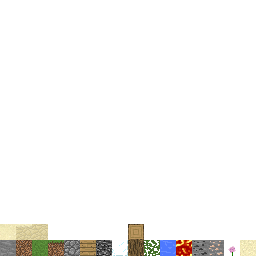
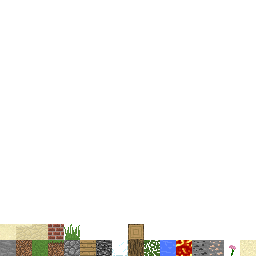
Texture Tweaks, Bricks & LGrass

Changed region(s): [[0.1875, 0.875, 0.3125, 0.9375], [0.875, 0.9375, 0.9375, 1.0], [0.5625, 0.9375, 0.625, 1.0]]

diff --git a/src/shared/entities/entityplayer.cpp b/src/shared/entities/entityplayer.cpp
@@ -98,7 +98,7 @@ void CEntityPlayer::UpdateClient( CWorld *clientSideWorld )
 			m_iSelectedBlockType = blocktype_t( m_iSelectedBlockType + 1 );
 			if ( m_iSelectedBlockType == blocktype_t::BEDROCK )
 				m_iSelectedBlockType = blocktype_t( m_iSelectedBlockType + 1 );
-			if ( m_iSelectedBlockType > blocktype_t::SANDSTONE )
+			if ( m_iSelectedBlockType > blocktype_t::LGRASS )
 				m_iSelectedBlockType = blocktype_t::STONE;
 		}
 		else if ( m_pInputMan->m_iMouseState & IN_WHEEL_DOWN )
@@ -107,7 +107,7 @@ void CEntityPlayer::UpdateClient( CWorld *clientSideWorld )
 			if ( m_iSelectedBlockType == blocktype_t::BEDROCK )
 				m_iSelectedBlockType = blocktype_t( m_iSelectedBlockType - 1 );
 			if ( m_iSelectedBlockType <= blocktype_t::AIR )
-				m_iSelectedBlockType = blocktype_t::SANDSTONE;
+				m_iSelectedBlockType = blocktype_t::LGRASS;
 		}
 	}
 }

diff --git a/src/shared/blockdef.cpp b/src/shared/blockdef.cpp
@@ -11,6 +11,7 @@ blockmaterial_t GetBlockMaterial( blocktype_t blockType )
 		case ORE_COAL:
 		case ORE_IRON:
 		case SANDSTONE:
+		case BRICKS:
 			return blockmaterial_t::MAT_STONE;
 			break;
 
@@ -30,6 +31,7 @@ blockmaterial_t GetBlockMaterial( blocktype_t blockType )
 		case GRASS:
 		case LEAVES:
 		case FLOWER:
+		case LGRASS:
 			return blockmaterial_t::MAT_ORGANIC;
 			break;
 
@@ -73,6 +75,7 @@ BlockFeatures GetBlockFeatures( blocktype_t blockType )
 			break;
 
 		case FLOWER:
+		case LGRASS:
 			bF.rule	 = OBSCURERULE_NEVER;
 			bF.solid = false;
 			bF.model = BLOCKMODEL_PLANT;

diff --git a/src/client/rendering/blocktexture.cpp b/src/client/rendering/blocktexture.cpp
@@ -79,5 +79,11 @@ BlockTexture GetDefaultBlockTextureSide( blocktype_t type, Direction side )
 			}
 			return { 1, 1, 1, 1 };
 			break;
+		case BRICKS:
+			return { 3, 1, 1, 1};
+			break;
+		case LGRASS:
+			return { 4, 1, 1, 1};
+			break;
 	}
 }

diff --git a/src/shared/blockdef.hpp b/src/shared/blockdef.hpp
@@ -24,6 +24,8 @@ enum blocktype_t {
 	FLOWER	  = 14,
 	SAND	  = 15,
 	SANDSTONE = 16,
+	BRICKS = 17,
+	LGRASS    = 18
 };
 
 enum blockmaterial_t {
